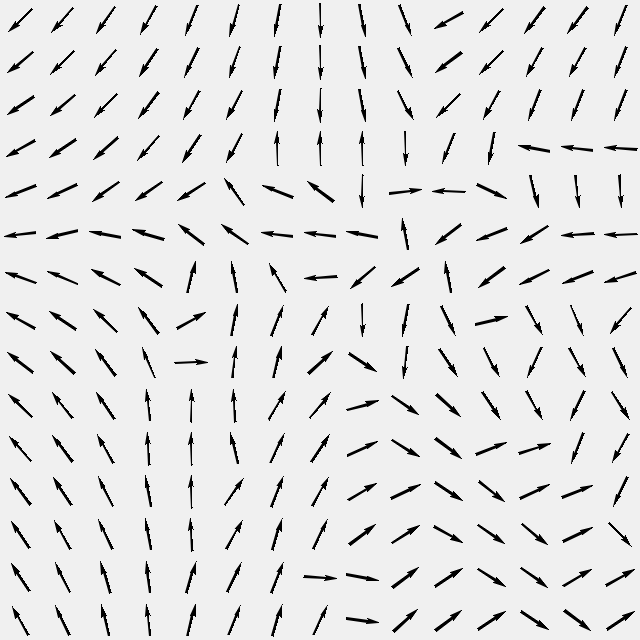
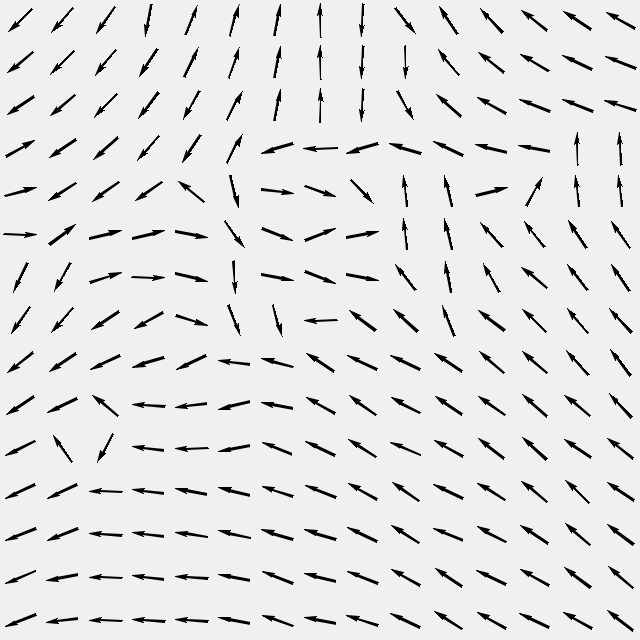
add test & tried some stuff but my will is broken

diff --git a/src/main.rs b/src/main.rs
@@ -1,4 +1,4 @@
-use std::{ops::{Range, Sub, Index, Add, AddAssign, Mul}, f32::consts::PI, iter::Sum, process::Output};
+use std::{ops::{Range, Sub, Index, Add, AddAssign, Mul}, f32::consts::PI};
 
 
 /// datastructure for Segments on the image circle
@@ -222,15 +222,20 @@ impl Bee {
         let mut turning_vec = Vec2::<f32>::new(0.0, 0.0);
         matched.iter().for_each(|(snap_segment, ret_segment)| {
             // get angular difference
-            let diff = if snap_segment.dist(*ret_segment) > 0.0 || (ret_segment.width > PI) {
+            let mut diff = if ret_segment.dist(*snap_segment) > 0.0 {
                 -1.0
             } else {
                 1.0
             };
+
+            if  ret_segment.width > PI {
+                diff = -diff;
+            }
+            
             // generate the vector
             let vec = Vec2::<f32>::new(
-                (ret_segment.bisector + PI/2.0).cos() * diff, 
-                (ret_segment.bisector + PI/2.0).sin() * diff,
+                (ret_segment.bisector - PI/2.0).cos() * diff, 
+                (ret_segment.bisector - PI/2.0).sin() * diff,
             );
             // return the vector but normalized
             turning_vec += vec.normalized();
@@ -627,5 +632,22 @@ fn help() {
     let out = bee.home(&world);
 
     println!("{:?}", out);
+}
 
+#[test]
+fn i_dont_know_what_im_doing() {
+    let s1 = Segment {
+        bisector: 0.5,
+        width: 1.0,
+        color: true,
+    };
+    let s2 = Segment {
+        bisector: 0.3,
+        width: 1.0,
+        color: true,
+    };
+
+    let test = s1.dist(s2);
+
+    assert!(test > 0.0)
 }
